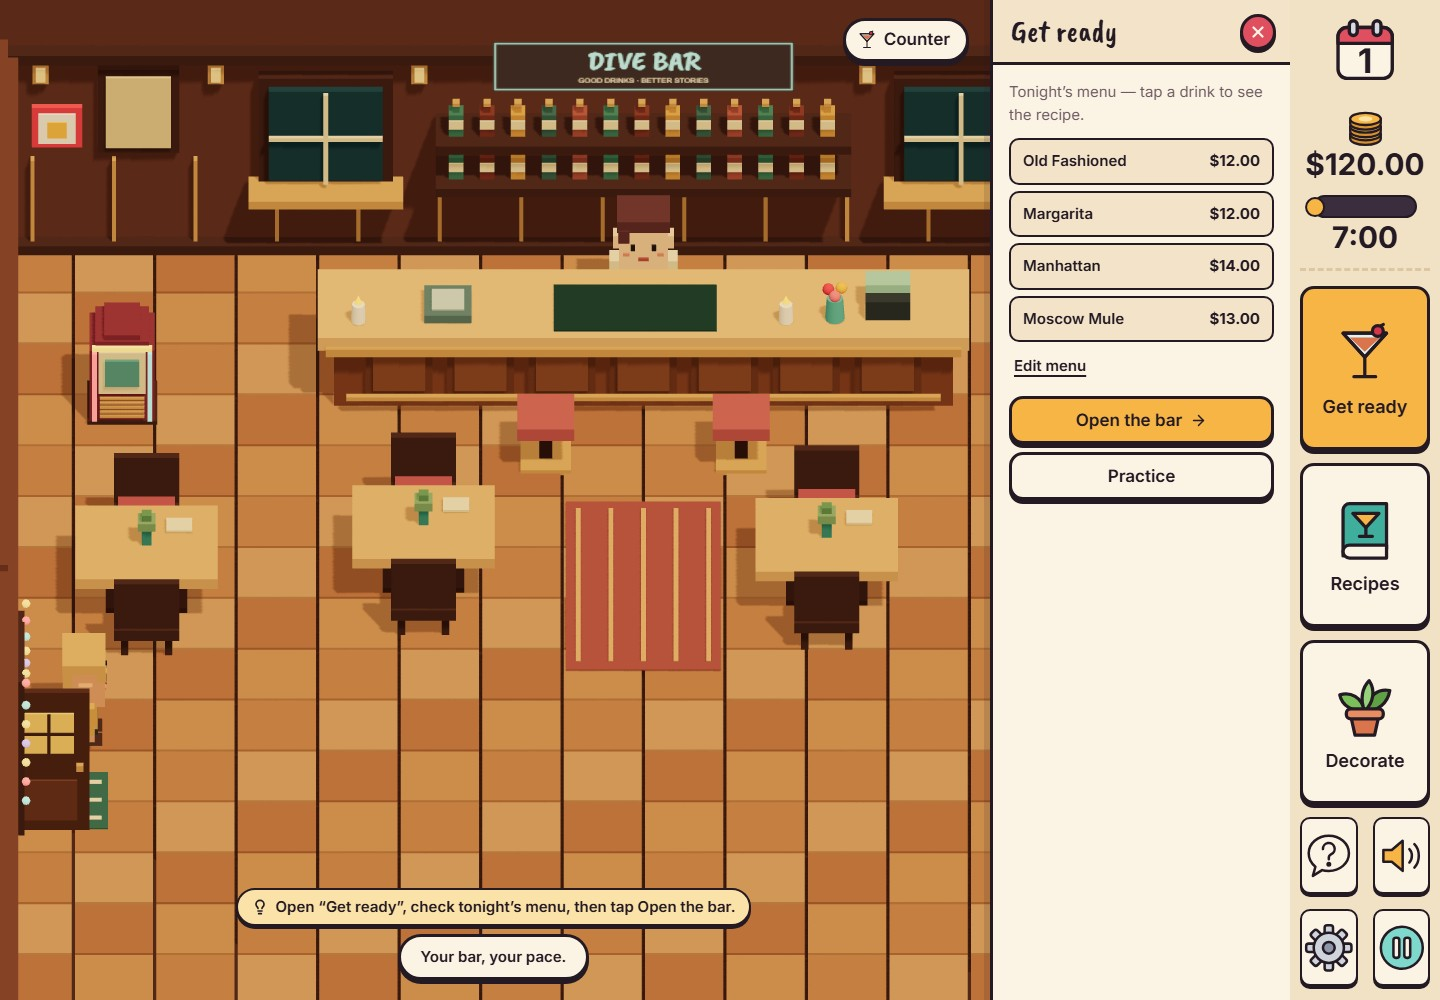
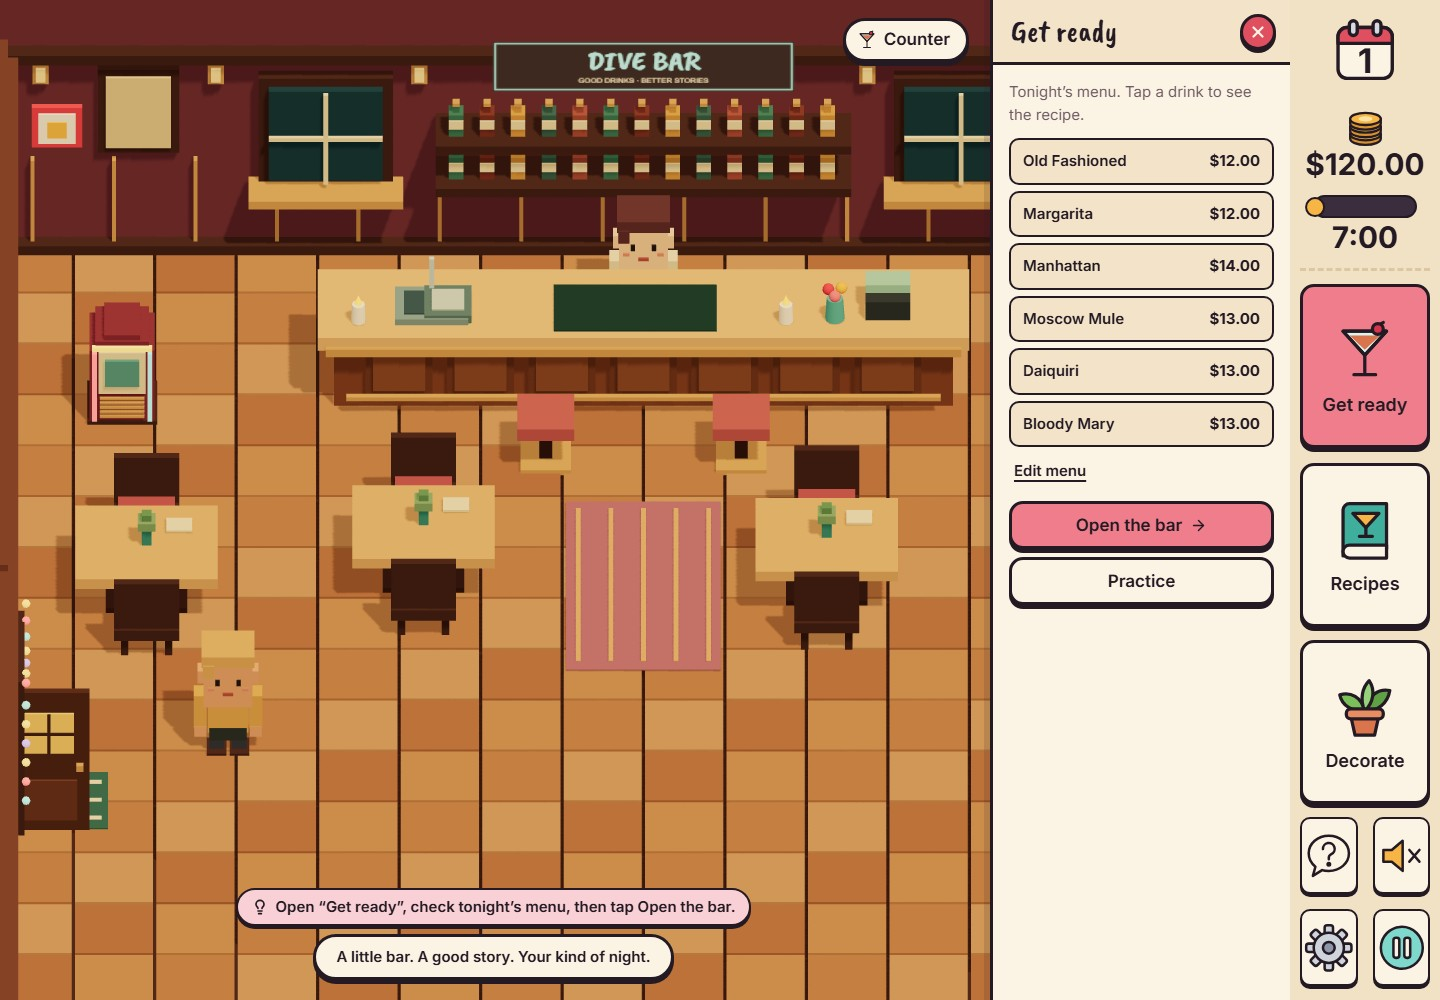
chore(release): prepare v0.0.3

diff --git a/e2e/readme.spec.ts b/e2e/readme.spec.ts
@@ -1,0 +1,84 @@
+import { expect, test } from '@playwright/test';
+import { execFileSync } from 'node:child_process';
+import { mkdirSync } from 'node:fs';
+
+test('README showcase captures use owned decor and the Rose theme', async ({ page }) => {
+  test.skip(!process.env.UPDATE_SCREENSHOTS, 'Documentation capture is explicitly requested.');
+  test.skip(!['desktop', 'touch'].includes(test.info().project.name), 'README capture profiles.');
+  await page.emulateMedia({ reducedMotion: 'reduce' });
+  await page.clock.install();
+  await page.goto('./');
+  await page.getByRole('button', { name: 'Play', exact: true }).click();
+  await expect(page.locator('canvas')).toBeVisible();
+  await page.clock.pauseAt((await page.evaluate(() => Date.now())) + 1000);
+
+  async function loadShowcase(opening = false) {
+    const buffer = execFileSync('bun', [
+      'run',
+      'scripts/test-fixture.ts',
+      '--showcase',
+      ...(opening ? ['--opening'] : []),
+    ]);
+    await page.getByRole('button', { name: 'Settings', exact: true }).click();
+    await page.locator('input[type=file]').setInputFiles({
+      name: 'showcase.divebar',
+      mimeType: 'application/octet-stream',
+      buffer,
+    });
+    await page.getByRole('button', { name: 'Continue', exact: true }).click();
+    await expect(page.locator('.game-shell')).toHaveClass(/theme-rose/);
+  }
+  async function capture(name: string) {
+    // Flush real frames after camera/layout changes before saving the WebGL view.
+    await page.clock.runFor(500);
+    await page.evaluate(() => document.fonts.ready);
+    mkdirSync('docs/screenshots', { recursive: true });
+    await page.screenshot({
+      path: `docs/screenshots/${name}.jpg`,
+      type: 'jpeg',
+      quality: 90,
+      scale: 'css',
+    });
+  }
+  await loadShowcase(true);
+  await page.getByRole('button', { name: 'Decorate', exact: true }).click();
+  await expect(page.locator('.shop-item.owned')).toHaveCount(7);
+  await page.getByRole('button', { name: 'Close panel' }).click();
+  if (test.info().project.name === 'touch') {
+    await page.getByRole('button', { name: 'Recipes', exact: true }).click();
+    await capture('phone-recipes');
+    return;
+  }
+  await page.getByRole('button', { name: 'Pause' }).click();
+  await page.getByRole('button', { name: 'Main menu' }).click();
+  await expect(page.getByRole('button', { name: 'Continue', exact: true })).toBeVisible();
+  await capture('title');
+  await page.getByRole('button', { name: 'Continue', exact: true }).click();
+  await page.getByRole('button', { name: 'Get ready', exact: true }).click();
+  await capture('get-ready');
+  await page.getByRole('button', { name: 'Close panel' }).click();
+  await loadShowcase();
+  await page.getByRole('button', { name: 'Select Mara', exact: true }).click();
+  await expect(page.getByRole('button', { name: 'Make drink' })).toBeVisible();
+  await capture('service');
+  await page.getByRole('button', { name: 'Make drink' }).click();
+  await page.getByRole('button', { name: 'Mixing glass', exact: true }).click();
+  await page.getByRole('button', { name: 'Chill glass', exact: true }).click();
+  await page.getByRole('button', { name: /Next: Pour/ }).click();
+  for (const bottle of ['Rye Whiskey', 'Sweet Red Vermouth', 'Angostura Bitters'])
+    await page
+      .locator('.pour-row', { hasText: bottle })
+      .getByRole('button', { name: 'Pour', exact: true })
+      .click();
+  await capture('counter-pour-ready');
+  await page.getByRole('button', { name: /Next: Mix/ }).click();
+  await page.getByRole('button', { name: 'Add ice', exact: true }).click();
+  await page.getByRole('button', { name: 'Stir Hold', exact: true }).focus();
+  await page.keyboard.down('Space');
+  await page.clock.runFor(2500);
+  await page.keyboard.up('Space');
+  await page.getByRole('button', { name: /Next: Garnish/ }).click();
+  await page.getByRole('button', { name: /^Cocktail cherry/ }).click();
+  await expect(page.locator('.bench-steps .done')).toHaveCount(4);
+  await capture('counter-garnish');
+});

diff --git a/scripts/test-fixture.ts b/scripts/test-fixture.ts
@@ -27,4 +27,20 @@ if (process.argv.includes('--closing')) {
   game.cash = 0;
   game.upgrades.barback = process.argv.includes('--host');
 }
+if (process.argv.includes('--showcase')) {
+  for (const upgrade of Object.keys(game.upgrades) as (keyof typeof game.upgrades)[])
+    game.upgrades[upgrade] = true;
+  game.settings.theme = 'rose';
+  game.settings.sound = false;
+  game.settings.music = false;
+  if (process.argv.includes('--opening')) {
+    game.phase = 'opening';
+    game.guests = [];
+    game.notice = 'A little bar. A good story. Your kind of night.';
+  } else {
+    game.guests[0].status = 'ordered';
+    game.guests[0].seat = 0;
+    game.notice = 'Mara ordered a Manhattan.';
+  }
+}
 process.stdout.write(new Uint8Array(await (await encodeBackup(game)).arrayBuffer()));

diff --git a/docs/implementation-status.md b/docs/implementation-status.md
@@ -1,12 +1,12 @@
 # Implementation status
 
-Updated 29 October 2026. The released baseline is 0.0.2; the work recorded below is ongoing development toward 0.0.3. This file describes the executable game; older design documents record targets and may include richer future behaviours.
+Updated 29 October 2026 for version 0.0.3. This file describes the executable game; older design documents record targets and may include richer future behaviours.
 
-## 0.0.3 progress — in development, not ready for release
+## 0.0.3 scope
 
-All work from this development session belongs to the planned 0.0.3 update. Version 0.0.3 is not ready, tagged or published; completed local changes and passing checks do not establish release readiness. Package metadata remains at 0.0.2 until release preparation.
+Package metadata and the changelog describe 0.0.3. Publication requires successful quality checks and the complete four-project production-browser suite for the release commit. GitHub Pages follows `main`; a release from another branch does not deploy that branch.
 
-Implemented locally:
+Implemented:
 
 - Fresh profiles and New game start with the host and all seven shop upgrades unowned. New game clears transient work and replaces the previous local save immediately.
 - The hired host is visible inside the room and follows routes to greet and escort guests.
@@ -14,10 +14,11 @@ Implemented locally:
 - Fresh bars start with six drinks and can select all fourteen. Live drink selection uses fresh Web Crypto draws with equal weight for every menu slot, without a favourite or previous-order bias. Test-only entropy injection preserves deterministic coverage without making live orders deterministic.
 - Bartending hints default to enabled for night one and switch off at every next-night transition; the settings switch remains available. The opening menu instruction uses a full stop instead of an em dash.
 - Snack offers can be accepted or declined. Refusals persist for the visit and through save/reload, preventing repeated offers from rerolling the decision. Stock and billing remain idempotent for accepted snacks.
+- Accepting and declining a snack offer are equally likely. Guests can request the other snack, and shortened offer labels fit the guest card.
 - Restocking is optional for closing, including with an empty till.
 - Wiping, washing glasses and taking out trash use timed jobs, staff movement, visible tools and progress. The host handles closing cleanup automatically; otherwise the bartender performs queued jobs. Completion ticks and cleanup effects occur after the work finishes, and pause or reading dialogs stop progress.
 
-Local verification includes 103 passing unit tests, covering equal-weight menu selection with controlled entropy, live Web Crypto integration, host/guest clearance and snack acceptance/refusal replay. Twenty focused browser checks passed across all four profiles for six-to-fourteen menu persistence, real non-Manhattan orders, both snack outcomes and hints turning off on the next night. The desktop suite and focused retests also exercised the existing story, cleanup, input and save flows. Content validation, formatting, lint, type checking and the production build passed. The complete four-project browser suite for the final release candidate and release preparation remain pending. Further 0.0.3 work may continue before the version is declared ready.
+The gameplay baseline at commit `85b55a6` passed the Quality and Pages workflow, including content validation, formatting, lint, type checking, unit tests, the production build and all four browser projects. Coverage includes equal-weight menu selection with controlled entropy, live Web Crypto integration, host/guest clearance, snack decisions, menu persistence, story, cleanup, input and save flows. The same workflow must pass on the release branch before publication; its run records provide evidence for the final release commit. README captures use separate signed showcase backups with all seven upgrades owned and the Rose theme selected. Physical-device testing remains unverified.
 
 ## Playable scope
 

diff --git a/README.md b/README.md
@@ -2,11 +2,13 @@
 
 A small voxel neighbourhood bar. Real measures, familiar faces, and the occasional little white lie.
 
-**Play it:** https://gestusition.github.io/dive-bar/ · **Latest release:** [v0.0.2](https://github.com/Gestusition/dive-bar/releases/tag/v0.0.2)
+**Play it:** https://gestusition.github.io/dive-bar/ · **Latest release:** [v0.0.3](https://github.com/Gestusition/dive-bar/releases/tag/v0.0.3)
 
 ![Title screen](docs/screenshots/title.jpg)
 
 ## Screenshots
+
+Captured from the production build with all seven upgrades owned, including the host, and the red Cherry theme selected. These showcase saves are separate from a new bar, which starts without purchased upgrades.
 
 | Getting ready for the night                           | Guests show what they need                             |
 | ----------------------------------------------------- | ------------------------------------------------------ |
@@ -66,7 +68,7 @@ Escape closes a drawer or window, or pauses. Windows pause service. The pause me
 - Warm pretzels and cheese toasties with one warming slot, snack stock and charges.
 - Pairs who pay together and ask for one bill or a split, integer money, idempotent settlement, and tips that follow the drink's score, the conversation, how fast it came and the room.
 - Guests choose each menu drink with equal probability using fresh Web Crypto randomness on desktop and mobile. Favourites do not bias orders; repeat orders remain possible. Deterministic story tests explicitly import their chosen recipe instead of assuming a live guest orders Manhattan.
-- Snacks are offers, not guaranteed sales. Guests can decline; that decision lasts for the visit and survives saves, so repeated clicks or switching snacks cannot reroll it. Accepted snacks consume stock once and add their price once, on serving.
+- Snacks are offers, not guaranteed sales. Acceptance and refusal are equally likely; guests may ask for the other snack instead. A refusal lasts for the visit and survives saves, so repeated clicks or switching snacks cannot reroll it. Accepted snacks consume stock once and add their price once, on serving.
 - Authored English conversations, plausible sweet lies, saved rapport and story callbacks.
 - Cleaning, washing, trash, editable restocking, ice refills and a closing recap.
 - Real recorded bar sounds (shop door bell, till drawer and coins, pouring, ice, shaking, stirring, a glass set down) and a jukebox playing "Bossa Antigua" by Kevin MacLeod. Credits and licences are in `public/licenses/sounds.txt`.
@@ -113,7 +115,7 @@ bun run test:e2e
 
 For a quick browser iteration, run `bun run test:e2e --project=desktop`. Run the full matrix before release. The clock helper preserves every 250 ms service tick while coalescing redundant animation callbacks; held-input tests retain all 100 ms input ticks. Story journeys import a normal signed fixture backup so random orders do not select a different story. The production game has no test speed mode.
 
-Refresh the six real production-build screenshots with `UPDATE_SCREENSHOTS=1 bun run test:e2e --project=desktop --project=touch` (PowerShell: set `$env:UPDATE_SCREENSHOTS='1'` first). Captures show a fresh local bar and a fixture-backed Manhattan story, rather than a live player's save.
+Refresh the six real production-build screenshots with `UPDATE_SCREENSHOTS=1 bun run test:e2e e2e/readme.spec.ts --project=desktop --project=touch` (PowerShell: set `$env:UPDATE_SCREENSHOTS='1'` first, then remove it after capture). Captures import normal signed showcase backups with every upgrade owned and the red Cherry theme selected. The counter images show an actual Manhattan preparation after animation frames have painted the resized WebGL scene. No live player's save is used.
 
 Vitest is the unit runner; use `bun run test:unit` rather than `bun test`. Playwright tests the production build in Firefox, Chrome, a Galaxy S8 in landscape (Chromium) and an iPhone 13 in landscape (WebKit). Emulation is not a physical-phone performance certification.
 

diff --git a/CHANGELOG.md b/CHANGELOG.md
@@ -2,18 +2,19 @@
 
 All notable changes are recorded here. Versions describe tagged source releases; GitHub Pages follows `main` and may show a different revision. This project is still an early playable release.
 
-## Unreleased — planned 0.0.3
-
-In development and not ready for release. The changes below belong to the ongoing 0.0.3 update; they do not represent a tagged or published version.
+## [0.0.3] - 2026-10-29
 
 ### Added
 
 - Timed cleanup jobs with staff walking, a wiping sponge, a working sink and glass-washing animation, a carried trash bag, and visible progress. Hired hosts automatically handle closing cleanup; otherwise the bartender performs requested jobs. Work pauses with the game and reading dialogs.
+- Guests can ask for the other snack instead of the one offered.
 
 ### Changed
 
 - Fresh bars start with six menu drinks; menus and validated saves support all fourteen recipes.
 - Bartending hints switch off automatically at the next night, while remaining available in Settings.
+- Snack offers are equally likely to be accepted or declined.
+- Shortened snack offer labels to fit the guest card.
 - Removed the em dash from the opening menu instruction.
 
 ### Fixed
@@ -63,5 +64,6 @@ In development and not ready for release. The changes below belong to the ongoin
 
 Initial tagged playable release: fourteen recipes, a voxel bar, manual cocktail preparation, service and dialogue, stock and integer-money accounting, shift closing, local saves, desktop/touch controls and GitHub Pages delivery.
 
+[0.0.3]: https://github.com/Gestusition/dive-bar/compare/v0.0.2...v0.0.3
 [0.0.2]: https://github.com/Gestusition/dive-bar/compare/v0.0.1...v0.0.2
 [0.0.1]: https://github.com/Gestusition/dive-bar/releases/tag/v0.0.1
